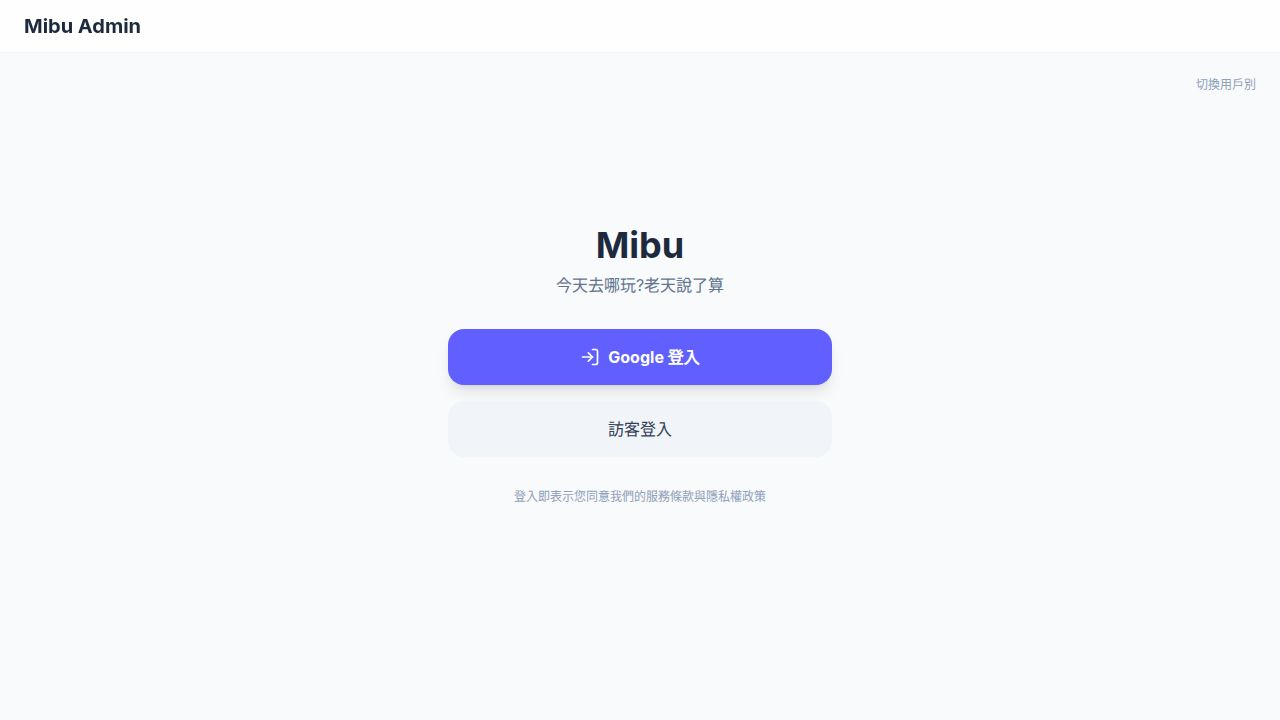
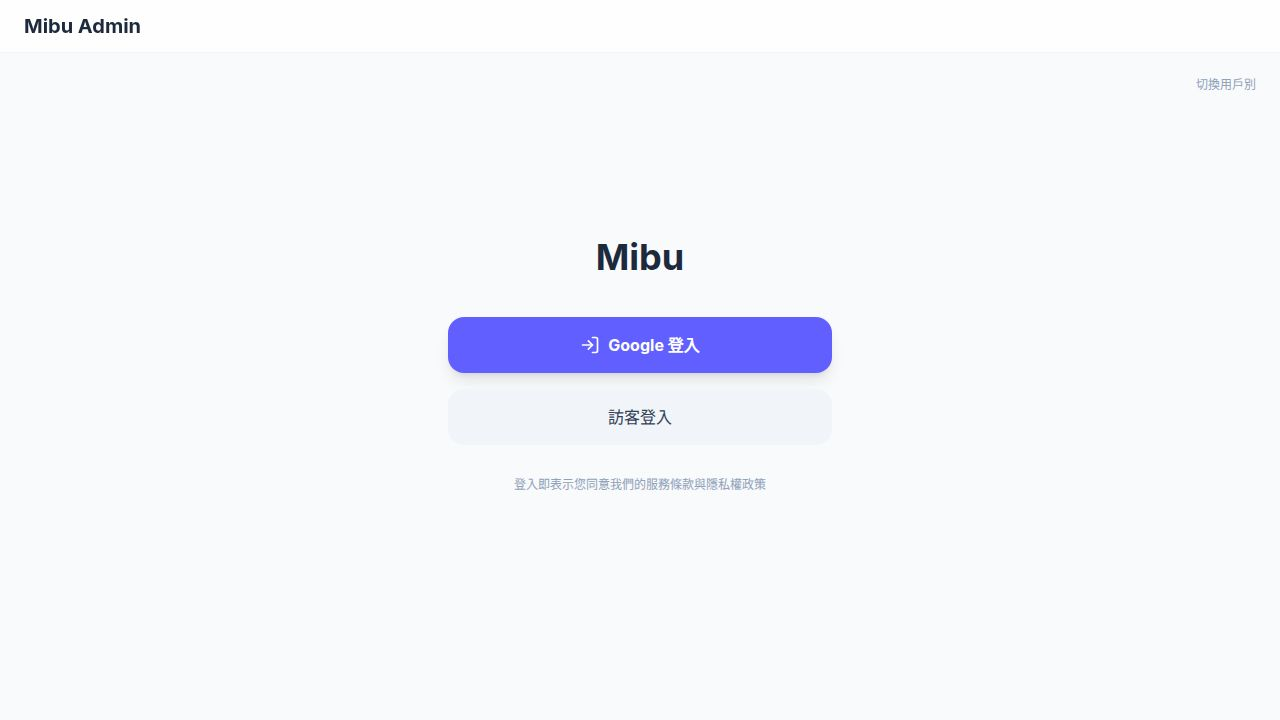
Update itinerary generation form with new UI and prize pool feature
Add region-specific prize pool filtering to the backend API and update the frontend to display SP/SSR coupons based on selected region.

Replit-Commit-Author: Agent
Replit-Commit-Session-Id: dfa89681-1cce-4344-ab5a-7c36de4d16de
Replit-Commit-Checkpoint-Type: intermediate_checkpoint
Replit-Commit-Event-Id: b944178d-632f-4874-a513-cea3624b4549
Replit-Commit-Screenshot-Url: https://storage.googleapis.com/screenshot-production-us-central1/591965a7-25f6-479c-b527-3890b1193c21/dfa89681-1cce-4344-ab5a-7c36de4d16de/eFEQAwg
Replit-Helium-Checkpoint-Created: true

Changed region(s): [[0.3438, 0.3056, 0.6562, 0.6111], [0.4062, 0.6417, 0.5938, 0.7028]]

diff --git a/client/src/components/InputForm.tsx b/client/src/components/InputForm.tsx
@@ -1,7 +1,7 @@
 import React, { useState, useEffect } from 'react';
 import { AppState, Language } from '../types';
 import { TRANSLATIONS } from '../constants';
-import { Loader2 } from 'lucide-react';
+import { Loader2, Gift, X } from 'lucide-react';
 
 interface Country {
   id: number;
@@ -38,6 +38,9 @@ export const InputForm: React.FC<InputFormProps> = ({ state, onUpdate, onSubmit,
   const [loadingCountries, setLoadingCountries] = useState(true);
   const [loadingRegions, setLoadingRegions] = useState(false);
   const [fetchError, setFetchError] = useState<string | null>(null);
+  const [showPrizePool, setShowPrizePool] = useState(false);
+  const [prizePoolCoupons, setPrizePoolCoupons] = useState<any[]>([]);
+  const [loadingPrizePool, setLoadingPrizePool] = useState(false);
 
   useEffect(() => {
     const fetchCountries = async () => {
@@ -134,10 +137,28 @@ export const InputForm: React.FC<InputFormProps> = ({ state, onUpdate, onSubmit,
   };
 
   const getLevelLabel = () => {
-    if (state.language === 'zh-TW') return `${state.level} Stops`;
-    if (state.language === 'ja') return `${state.level} スポット`;
-    if (state.language === 'ko') return `${state.level} 스톱`;
-    return `${state.level} Stops`;
+    return `${state.level}`;
+  };
+
+  const fetchPrizePool = async () => {
+    if (!selectedRegionId) return;
+    setLoadingPrizePool(true);
+    try {
+      const response = await fetch(`/api/coupons/region/${selectedRegionId}/pool`);
+      if (response.ok) {
+        const data = await response.json();
+        setPrizePoolCoupons(data.coupons || []);
+      }
+    } catch (error) {
+      console.error('Failed to fetch prize pool:', error);
+    } finally {
+      setLoadingPrizePool(false);
+    }
+  };
+
+  const handleShowPrizePool = () => {
+    fetchPrizePool();
+    setShowPrizePool(true);
   };
 
   const canSubmit = selectedCountryId && selectedRegionId && districtCount > 0;
@@ -146,11 +167,12 @@ export const InputForm: React.FC<InputFormProps> = ({ state, onUpdate, onSubmit,
     <div className="w-full max-w-md mx-auto px-5 pt-8 pb-4">
       <div className="text-center mb-8">
         <h1 className="text-3xl font-black text-slate-800 tracking-tight">{t.appTitle}</h1>
-        {userName && (
-          <p className="text-slate-400 mt-2 text-sm">
-            {state.language === 'zh-TW' ? `歡迎回來, ${userName}` : `Welcome back, ${userName}`}
-          </p>
-        )}
+        <p className="text-slate-500 mt-2 text-sm font-medium">
+          {state.language === 'zh-TW' ? '今天去哪玩?老天說了算' : 
+           state.language === 'ja' ? '今日はどこへ？運命に任せよう' : 
+           state.language === 'ko' ? '오늘 어디로? 운에 맡기자' : 
+           "Where to today? Let fate decide"}
+        </p>
       </div>
 
       <div className="space-y-4">
@@ -225,7 +247,7 @@ export const InputForm: React.FC<InputFormProps> = ({ state, onUpdate, onSubmit,
           <div className="pt-2">
             <div className="flex items-center justify-between mb-3">
               <span className="text-sm font-bold text-slate-700">
-                {state.language === 'zh-TW' ? '行程節奏' : state.language === 'ja' ? '行程のペース' : state.language === 'ko' ? '일정 페이스' : 'Itinerary Pace'}
+                {state.language === 'zh-TW' ? '行程數量' : state.language === 'ja' ? '行程数' : state.language === 'ko' ? '일정 수' : 'Itinerary Count'}
               </span>
               <span className="px-3 py-1 bg-indigo-50 text-indigo-600 rounded-full text-sm font-bold" data-testid="text-level">
                 {getLevelLabel()}
@@ -259,6 +281,17 @@ export const InputForm: React.FC<InputFormProps> = ({ state, onUpdate, onSubmit,
           </div>
         )}
 
+        {selectedRegionId && (
+          <button
+            onClick={handleShowPrizePool}
+            className="w-full py-3 rounded-2xl font-bold text-sm mt-2 bg-gradient-to-r from-amber-400 to-orange-400 text-white shadow-md hover:from-amber-500 hover:to-orange-500 active:scale-[0.98] transition-all flex items-center justify-center gap-2"
+            data-testid="button-view-prize-pool"
+          >
+            <Gift className="w-4 h-4" />
+            {state.language === 'zh-TW' ? '查看獎池' : state.language === 'ja' ? '賞品プールを見る' : state.language === 'ko' ? '상품풀 보기' : 'View Prize Pool'}
+          </button>
+        )}
+
         <button
           onClick={onSubmit}
           disabled={!canSubmit}
@@ -272,6 +305,78 @@ export const InputForm: React.FC<InputFormProps> = ({ state, onUpdate, onSubmit,
           {state.language === 'zh-TW' ? '開始扭蛋' : state.language === 'ja' ? 'ガチャを回す' : state.language === 'ko' ? '가챠 시작' : 'START GACHA'}
         </button>
       </div>
+
+      {showPrizePool && (
+        <div className="fixed inset-0 z-50 flex items-center justify-center bg-black/50 backdrop-blur-sm p-4">
+          <div className="bg-white rounded-3xl shadow-2xl w-full max-w-md max-h-[80vh] overflow-hidden">
+            <div className="bg-gradient-to-r from-amber-400 to-orange-400 px-6 py-4 flex items-center justify-between">
+              <h3 className="text-lg font-bold text-white flex items-center gap-2">
+                <Gift className="w-5 h-5" />
+                {state.language === 'zh-TW' ? '獎池內容' : 'Prize Pool'}
+              </h3>
+              <button
+                onClick={() => setShowPrizePool(false)}
+                className="w-8 h-8 rounded-full bg-white/20 flex items-center justify-center text-white hover:bg-white/30 transition-colors"
+                data-testid="button-close-prize-pool"
+              >
+                <X className="w-5 h-5" />
+              </button>
+            </div>
+            <div className="p-6 overflow-y-auto max-h-[60vh]">
+              {loadingPrizePool ? (
+                <div className="flex items-center justify-center py-8">
+                  <Loader2 className="w-8 h-8 animate-spin text-amber-500" />
+                </div>
+              ) : prizePoolCoupons.length === 0 ? (
+                <div className="text-center py-8">
+                  <div className="w-16 h-16 bg-slate-100 rounded-full flex items-center justify-center mx-auto mb-4">
+                    <Gift className="w-8 h-8 text-slate-400" />
+                  </div>
+                  <p className="text-slate-500">
+                    {state.language === 'zh-TW' ? '目前此區域沒有特殊優惠券' : 'No special coupons in this region'}
+                  </p>
+                </div>
+              ) : (
+                <div className="space-y-3">
+                  {prizePoolCoupons.map((coupon, index) => (
+                    <div 
+                      key={coupon.id || index}
+                      className={`p-4 rounded-2xl border-2 ${
+                        coupon.rarity === 'SP' 
+                          ? 'bg-gradient-to-r from-purple-50 to-pink-50 border-purple-200' 
+                          : 'bg-gradient-to-r from-amber-50 to-orange-50 border-amber-200'
+                      }`}
+                      data-testid={`prize-coupon-${coupon.id || index}`}
+                    >
+                      <div className="flex items-center justify-between mb-2">
+                        <span className={`px-2 py-0.5 rounded-full text-xs font-bold ${
+                          coupon.rarity === 'SP' 
+                            ? 'bg-purple-500 text-white' 
+                            : 'bg-amber-500 text-white'
+                        }`}>
+                          {coupon.rarity || 'SSR'}
+                        </span>
+                        {coupon.merchantName && (
+                          <span className="text-xs text-slate-500">{coupon.merchantName}</span>
+                        )}
+                      </div>
+                      <h4 className="font-bold text-slate-800">{coupon.title || coupon.name}</h4>
+                      {coupon.description && (
+                        <p className="text-sm text-slate-500 mt-1">{coupon.description}</p>
+                      )}
+                      {coupon.discount && (
+                        <div className="mt-2 text-lg font-bold text-orange-600">
+                          {coupon.discount}
+                        </div>
+                      )}
+                    </div>
+                  ))}
+                </div>
+              )}
+            </div>
+          </div>
+        </div>
+      )}
     </div>
   );
 };

diff --git a/server/storage.ts b/server/storage.ts
@@ -56,6 +56,7 @@ export interface IStorage {
   getActiveCoupons(merchantId: number): Promise<Coupon[]>;
   createCoupon(coupon: InsertCoupon): Promise<Coupon>;
   updateCoupon(couponId: number, data: Partial<Coupon>): Promise<Coupon>;
+  getRegionPrizePoolCoupons(regionId: number): Promise<any[]>;
 
   // Place Cache
   getCachedPlace(subCategory: string, district: string, city: string, country: string): Promise<PlaceCache | undefined>;
@@ -365,6 +366,87 @@ export class DatabaseStorage implements IStorage {
       .where(eq(coupons.id, couponId))
       .returning();
     return updated;
+  }
+
+  async getRegionPrizePoolCoupons(regionId: number): Promise<any[]> {
+    // Get all districts in this region
+    const regionDistricts = await db
+      .select()
+      .from(districts)
+      .where(eq(districts.regionId, regionId));
+    
+    if (regionDistricts.length === 0) {
+      return [];
+    }
+
+    // Get region info for city name
+    const [region] = await db
+      .select()
+      .from(regions)
+      .where(eq(regions.id, regionId));
+    
+    if (!region) {
+      return [];
+    }
+
+    // Get district names in both zh and en for matching
+    const districtNames = regionDistricts.flatMap(d => [d.nameZh, d.nameEn].filter(Boolean));
+    const cityNames = [region.nameZh, region.nameEn].filter(Boolean);
+
+    // Find coupons with SP or SSR rarity that are active
+    // We join with merchantPlaceLinks to get location data for filtering
+    const prizePoolCoupons = await db
+      .select({
+        id: coupons.id,
+        title: coupons.title,
+        description: coupons.terms,
+        rarity: coupons.rarity,
+        merchantName: merchants.name,
+        discount: coupons.code,
+        merchantId: coupons.merchantId,
+        placeDistrict: merchantPlaceLinks.district,
+        placeCity: merchantPlaceLinks.city,
+      })
+      .from(coupons)
+      .innerJoin(merchants, eq(coupons.merchantId, merchants.id))
+      .leftJoin(merchantPlaceLinks, eq(coupons.merchantPlaceLinkId, merchantPlaceLinks.id))
+      .where(
+        and(
+          eq(coupons.isActive, true),
+          eq(coupons.archived, false),
+          or(
+            eq(coupons.rarity, 'SP'),
+            eq(coupons.rarity, 'SSR')
+          )
+        )
+      );
+
+    // Filter by region - match district name or city name
+    const filteredCoupons = prizePoolCoupons.filter(coupon => {
+      // If coupon has no place link, check if merchant is in this region (include as general prize for now)
+      if (!coupon.placeDistrict && !coupon.placeCity) {
+        return true; // Include global coupons
+      }
+      
+      // Check if district matches any district in the region
+      if (coupon.placeDistrict && districtNames.some(d => 
+        d.toLowerCase() === coupon.placeDistrict?.toLowerCase()
+      )) {
+        return true;
+      }
+      
+      // Check if city matches the region name
+      if (coupon.placeCity && cityNames.some(c => 
+        c.toLowerCase() === coupon.placeCity?.toLowerCase()
+      )) {
+        return true;
+      }
+      
+      return false;
+    });
+
+    // Remove internal fields before returning
+    return filteredCoupons.map(({ placeDistrict, placeCity, ...coupon }) => coupon);
   }
 
   // Place Cache

diff --git a/server/routes.ts b/server/routes.ts
@@ -885,6 +885,22 @@ export async function registerRoutes(app: Express): Promise<Server> {
     }
   });
 
+  // 取得區域獎池 (SP/SSR 優惠券)
+  app.get("/api/coupons/region/:regionId/pool", async (req, res) => {
+    try {
+      const regionId = parseInt(req.params.regionId);
+      if (isNaN(regionId)) {
+        return res.status(400).json({ error: "Invalid region ID" });
+      }
+      
+      const coupons = await storage.getRegionPrizePoolCoupons(regionId);
+      res.json({ coupons });
+    } catch (error) {
+      console.error("Failed to fetch prize pool:", error);
+      res.status(500).json({ error: "Failed to fetch prize pool" });
+    }
+  });
+
   // ============ District Data for Random Selection ============
   const DISTRICT_DATA: Record<string, Record<string, string[]>> = {
     taiwan: {
